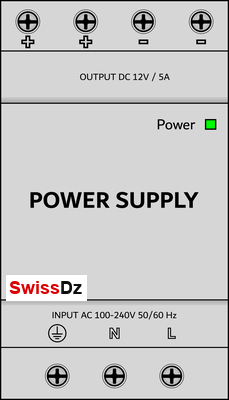
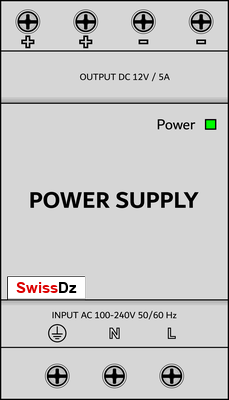
PanelWire: recaler bande SwissDz Alimentation dans l’empreinte WiresCAD (panel46).
Réduit le débord bas : bande blanche ≤ badge d’origine, au-dessus de la ligne du boîtier.

Changed region(s): [[0.0, 0.69, 0.3974, 0.75]]

diff --git a/ecole-electricite.html b/ecole-electricite.html
@@ -87,7 +87,7 @@
       var LANG_STORAGE = "electrodz-site-lang";
       var UNLOCK_KEY = "electrodz-ecole-unlocked";
       var ACCESS_CODE = "athmano";
-      var PANEL_SRC = "swissdz-panel/index.html?v=panel45&ecole=1";
+      var PANEL_SRC = "swissdz-panel/index.html?v=panel46&ecole=1";
 
       var T = {
         fr: {
